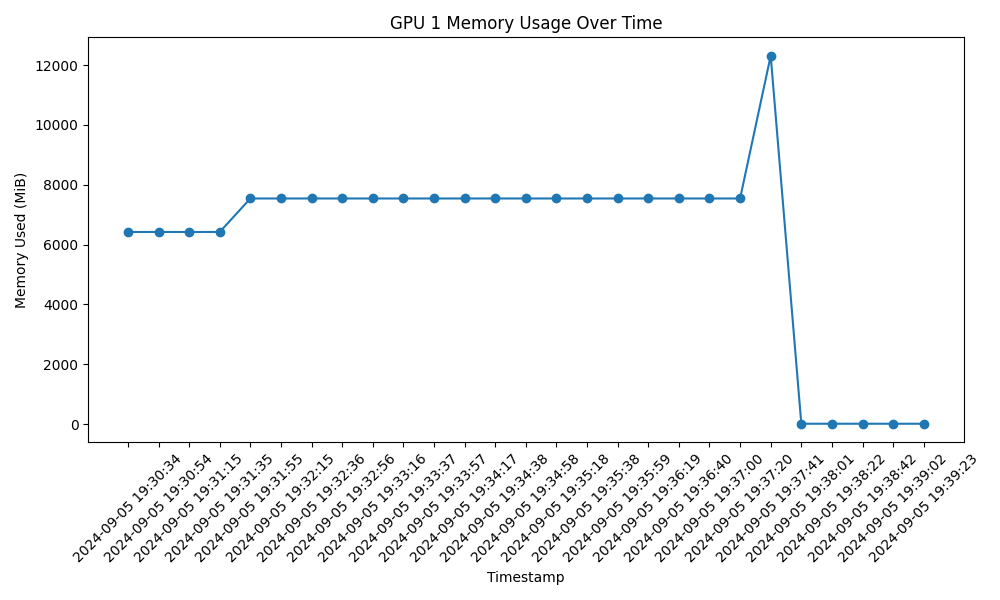
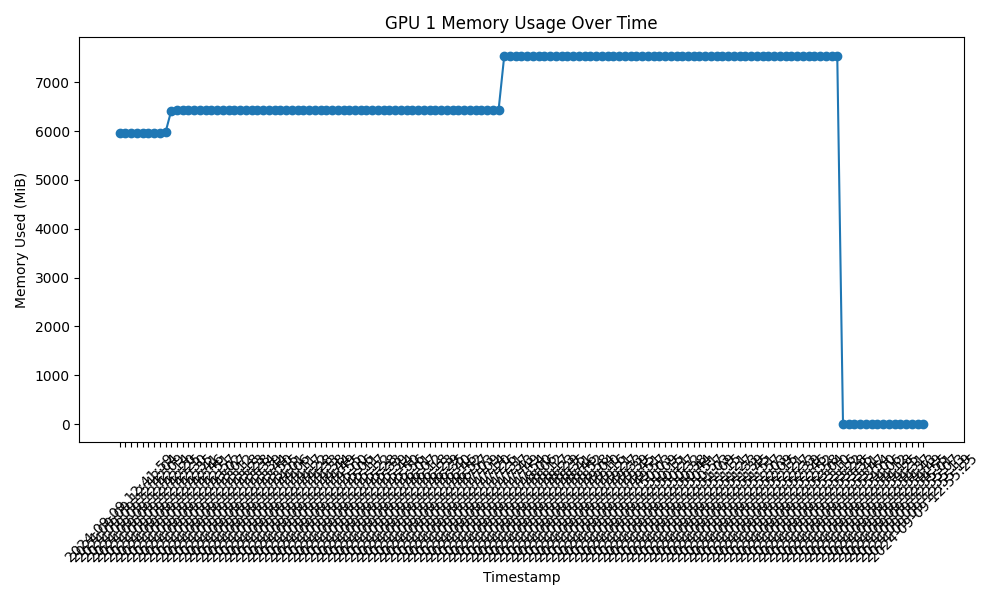
5秒ごとで見たけどわからない

diff --git a/tools/gpu_usage_logger.py b/tools/gpu_usage_logger.py
@@ -73,4 +73,4 @@ def log_and_plot_gpu_memory_usage(interval=60, duration_hours=4):
         time.sleep(interval)
 
 if __name__ == '__main__':
-    log_and_plot_gpu_memory_usage(interval=20, duration_hours=4)  # 20秒ごとにログとプロットを更新し、4時間後に終了
+    log_and_plot_gpu_memory_usage(interval=5, duration_hours=4)  # 20秒ごとにログとプロットを更新し、4時間後に終了
